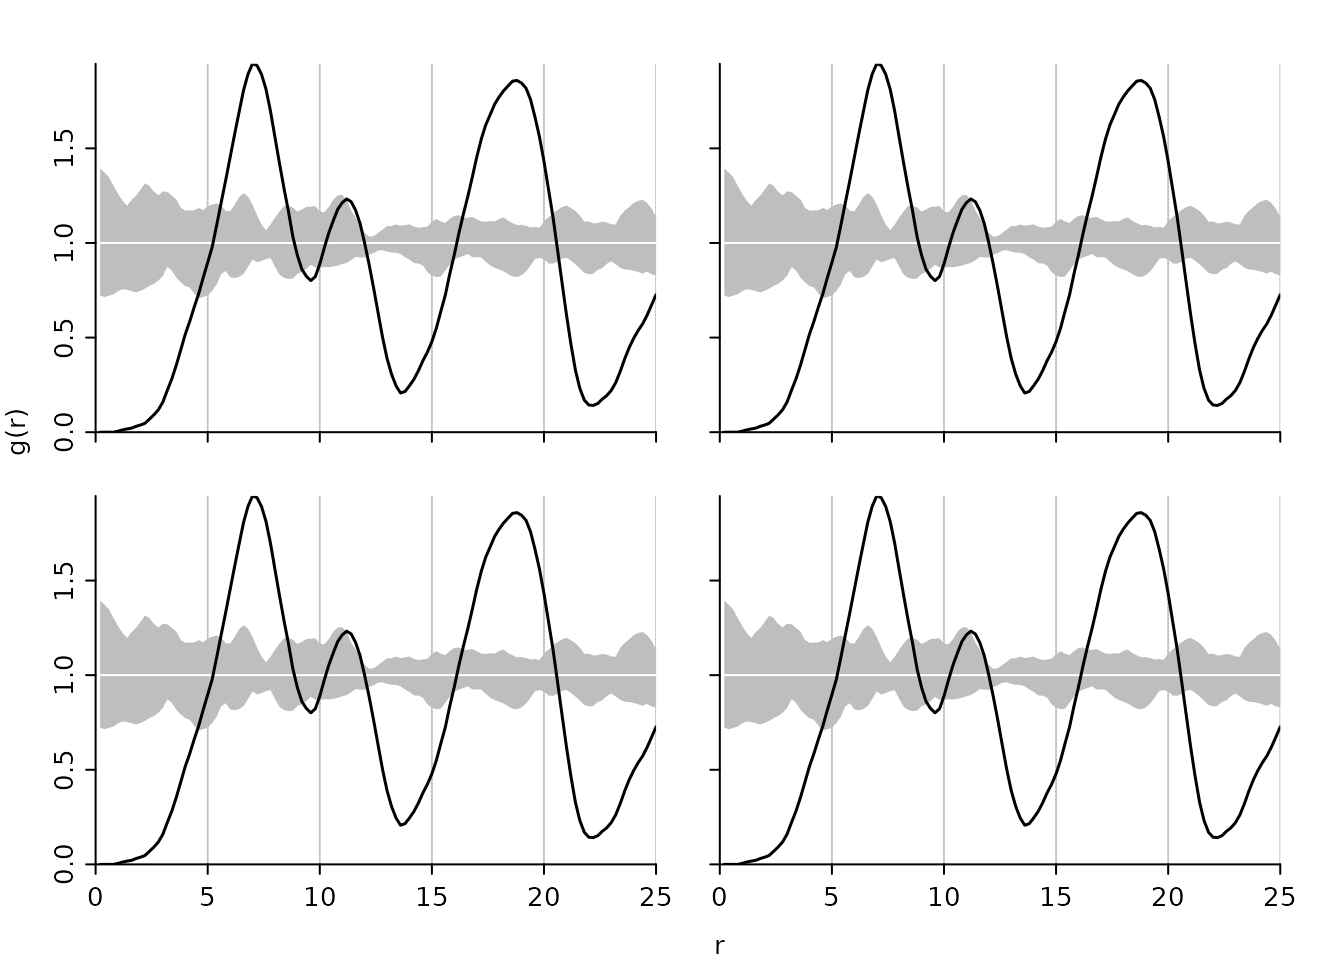
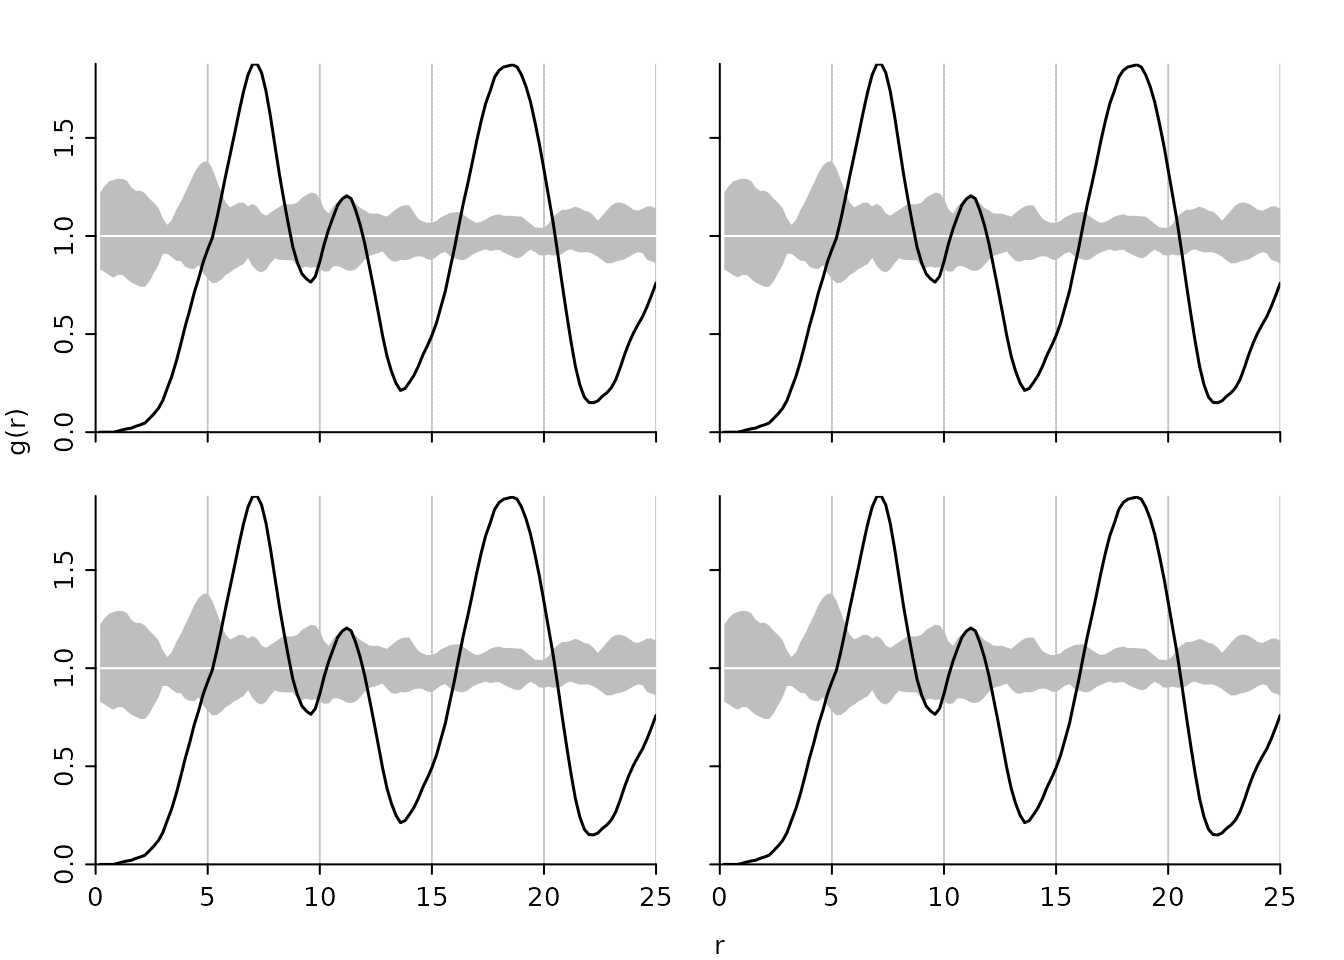
Built site for apcf: 0.1.6.901@e7b9968

diff --git a/index.html b/index.html
@@ -89,6 +89,7 @@
 <div id="apcf-adapted-pair-correlation-function" class="section level2">
 <h2 class="hasAnchor">
 <a href="#apcf-adapted-pair-correlation-function" class="anchor"></a>apcf: Adapted Pair Correlation Function</h2>
+<!-- badges: start -->
 
 <p>The Adapted Pair Correlation Function transfers the concept of the Pair Correlation Function from point patterns to patterns of patches of finite size and irregular shape (eg. lakes within a country). The main tasks are (i) the construction of nullmodels by rondomizing the patches of the original pattern within the study area, (ii) the edge correction by determining the proportion of a buffer within the study area, and (iii) the calculation of the shortest distances between the patches.</p>
 <p>This is a reimplementation of the Adapted Pair Correlation Function (Nuske et al. 2009) in C++ using the libraries GEOS and GDAL directly instead of through PostGIS.</p>
@@ -179,8 +180,7 @@
   <div class="dev-status">
 <h2>Dev status</h2>
 <ul class="list-unstyled">
-<li><a href="https://app.travis-ci.com/github/rnuske/apcf"><img src="https://app.travis-ci.com/rnuske/apcf.svg?branch=master" alt="Travis-CI Build Status"></a></li>
-<li><a href="https://ci.appveyor.com/project/rnuske/apcf"><img src="https://ci.appveyor.com/api/projects/status/github/rnuske/apcf?branch=master&amp;svg=true" alt="AppVeyor Build Status"></a></li>
+<li><a href="https://github.com/rnuske/apcf/actions"><img src="https://github.com/rnuske/apcf/workflows/R-CMD-check/badge.svg" alt="R-CMD-check"></a></li>
 <li><a href="https://cloud.drone.io/rnuske/apcf"><img src="https://cloud.drone.io/api/badges/rnuske/apcf/status.svg" alt="Drone.io Status"></a></li>
 <li><a href="https://www.gnu.org/licenses/gpl-3.0.html"><img src="https://img.shields.io/badge/license-GPL--3-brightgreen.svg?style=flat" alt="Package-License"></a></li>
 <li><a href="https://cran.r-project.org/package=apcf"><img src="https://www.r-pkg.org/badges/version/apcf" alt="CRAN"></a></li>

diff --git a/articles/intro.html b/articles/intro.html
@@ -147,13 +147,13 @@
 <span class="co">## Alternative: "two.sided"</span>
 <span class="co">## Significance level of pointwise Monte Carlo test: 0.2</span>
 <span class="co">## </span>
-<span class="co">##     r          g       lwr      upr</span>
-<span class="co">## 1 0.2 0.00000000 0.7223155 1.394479</span>
-<span class="co">## 2 0.4 0.00000000 0.7141893 1.372426</span>
-<span class="co">## 3 0.6 0.00000000 0.7213892 1.346712</span>
-<span class="co">## 4 0.8 0.00000000 0.7290265 1.302083</span>
-<span class="co">## 5 1.0 0.00537127 0.7453591 1.259907</span>
-<span class="co">## 6 1.2 0.01222247 0.7552687 1.223758</span></code></pre></div>
+<span class="co">##     r           g       lwr      upr</span>
+<span class="co">## 1 0.2 0.000000000 0.8297805 1.222213</span>
+<span class="co">## 2 0.4 0.000000000 0.8155084 1.255033</span>
+<span class="co">## 3 0.6 0.000000000 0.8000035 1.277642</span>
+<span class="co">## 4 0.8 0.000000000 0.7879591 1.286488</span>
+<span class="co">## 5 1.0 0.005358374 0.8013502 1.291504</span>
+<span class="co">## 6 1.2 0.012160107 0.8017601 1.290868</span></code></pre></div>
 </div>
 <div id="plotting-the-pcf" class="section level2">
 <h2 class="hasAnchor">
